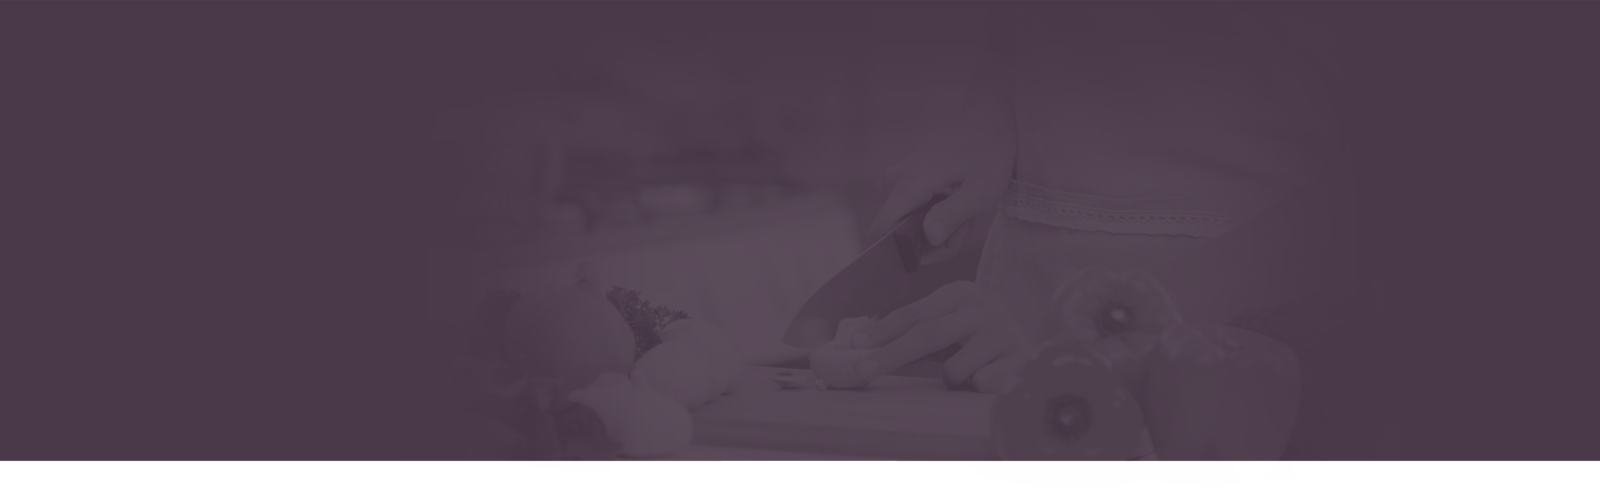
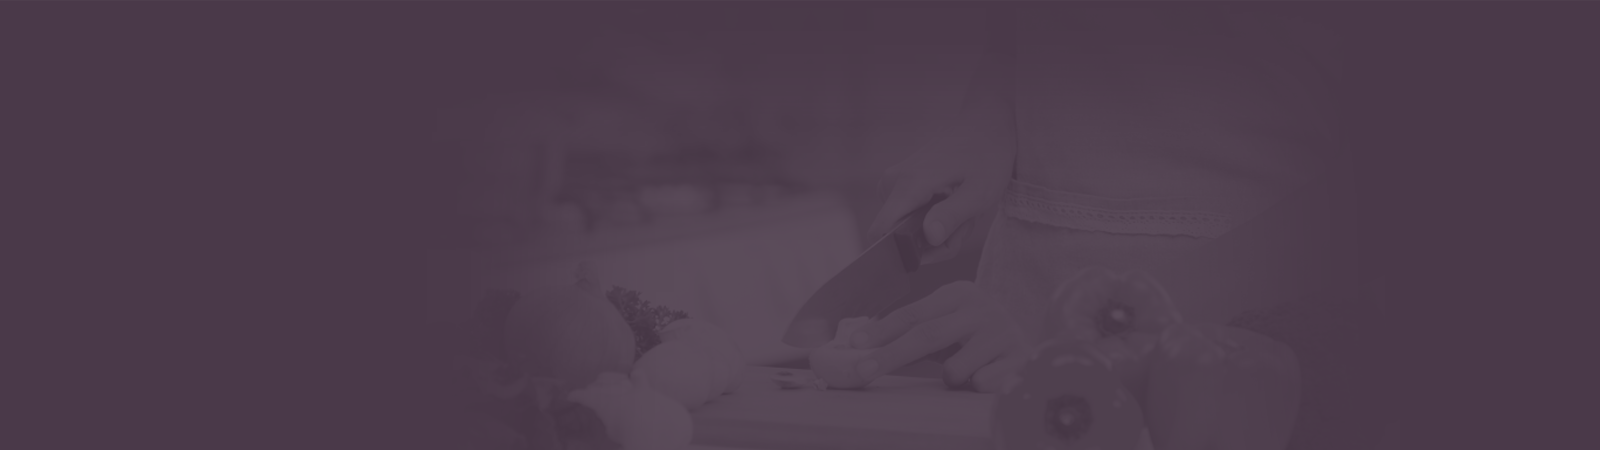
Second commit

Changed region(s): [[0.0, 0.9333, 1.0, 1.0]]

diff --git a/Fudi/index.html b/Fudi/index.html
@@ -5,7 +5,7 @@
     <meta name="viewport" content="width=device-width, initial-scale=1, shrink-to-fit=no">
 
 
-    <title>Title</title>
+    <title>Fudi</title>
 
     <link href="https://fonts.googleapis.com/css?family=Lato:100,100i,300,300i,400,400i,700,700i,900,900i&display=swap"
           rel="stylesheet">
@@ -114,24 +114,66 @@
 
 
 
-    <div class="container slider">
+    <div class="container-fluid slider d-flex flex-column align-items-center justify-content-center">
            
            
                 <div class="row ">
                   
                         
-                   <div class="col d-flex justify-content-center block-1"><img src="images/photo.png"></div>
+                   <div class="col"><img src="images/photo.png"></div>
                       
                 </div>
 
                 <div class="row">
 
                  
-                     <div class="col justify-content-center block-2"><p>Lorem ipsum dolor sit, amet consectetur adipisicing elit.</p> </div>   
+                     <div class="col slider-text"><h2>“I am so happy because I found this recipe, and it just made my life easier.<br>
+                        Thanks  so much for sharing!”</h2>
+                       <h3> - Michael Dawson, San Francisco, CA - </h3></div>   
 
                 </div>
       
   
+    </div>
+
+
+    <div class="container-fluid">
+
+        <div class="row">
+
+            <div class="col">
+                <p>BROWSE BY CUISINES</p>
+            </div>
+
+            <div class="row">
+
+                <div class="col"><img src="images/italian-box.png"></div>
+                <div class="col"><img src="images/indian-box.png"></div>
+                <div class="col"><img src="images/french-box.png"></div>
+                <div class="col"><img src="images/steakhouse-box.png"></div>
+                <div class="col"><img src="images/seafood-box.png"></div>
+
+
+
+          
+                <div class="col"><img src="images/sushi-box.png"></div>
+                <div class="col"><img src="images/mexican-box.png"></div>
+                <div class="col"><img src="images/chinese-box.png"></div>
+                <div class="col"><img src="images/pizza-box.png"></div>
+                <div class="col"><img src="images/american-box.png"></div>
+
+
+
+
+            </div>
+
+
+        </div>
+
+
+
+
+
     </div>
 
               

diff --git a/Fudi/css/style.css b/Fudi/css/style.css
@@ -205,7 +205,7 @@ border-bottom: 1px solid #f57365
 .slider {
   
     background: url('../images/background.png') ;
-    height: 500px;
+    height: 450px;
     width: 100%;
     color: white;
    
@@ -224,3 +224,21 @@ margin-top: 150px;
 .block-2 p {
     text-align: center;
 }
+.slider h2 {
+
+    font-size: 30px;
+    text-align: center;
+}
+.slider h3 {
+    text-align: center;
+    font-size: 18px;
+}
+
+.slider-text {
+
+line-height: 1.2;
+
+}
+
+
+
